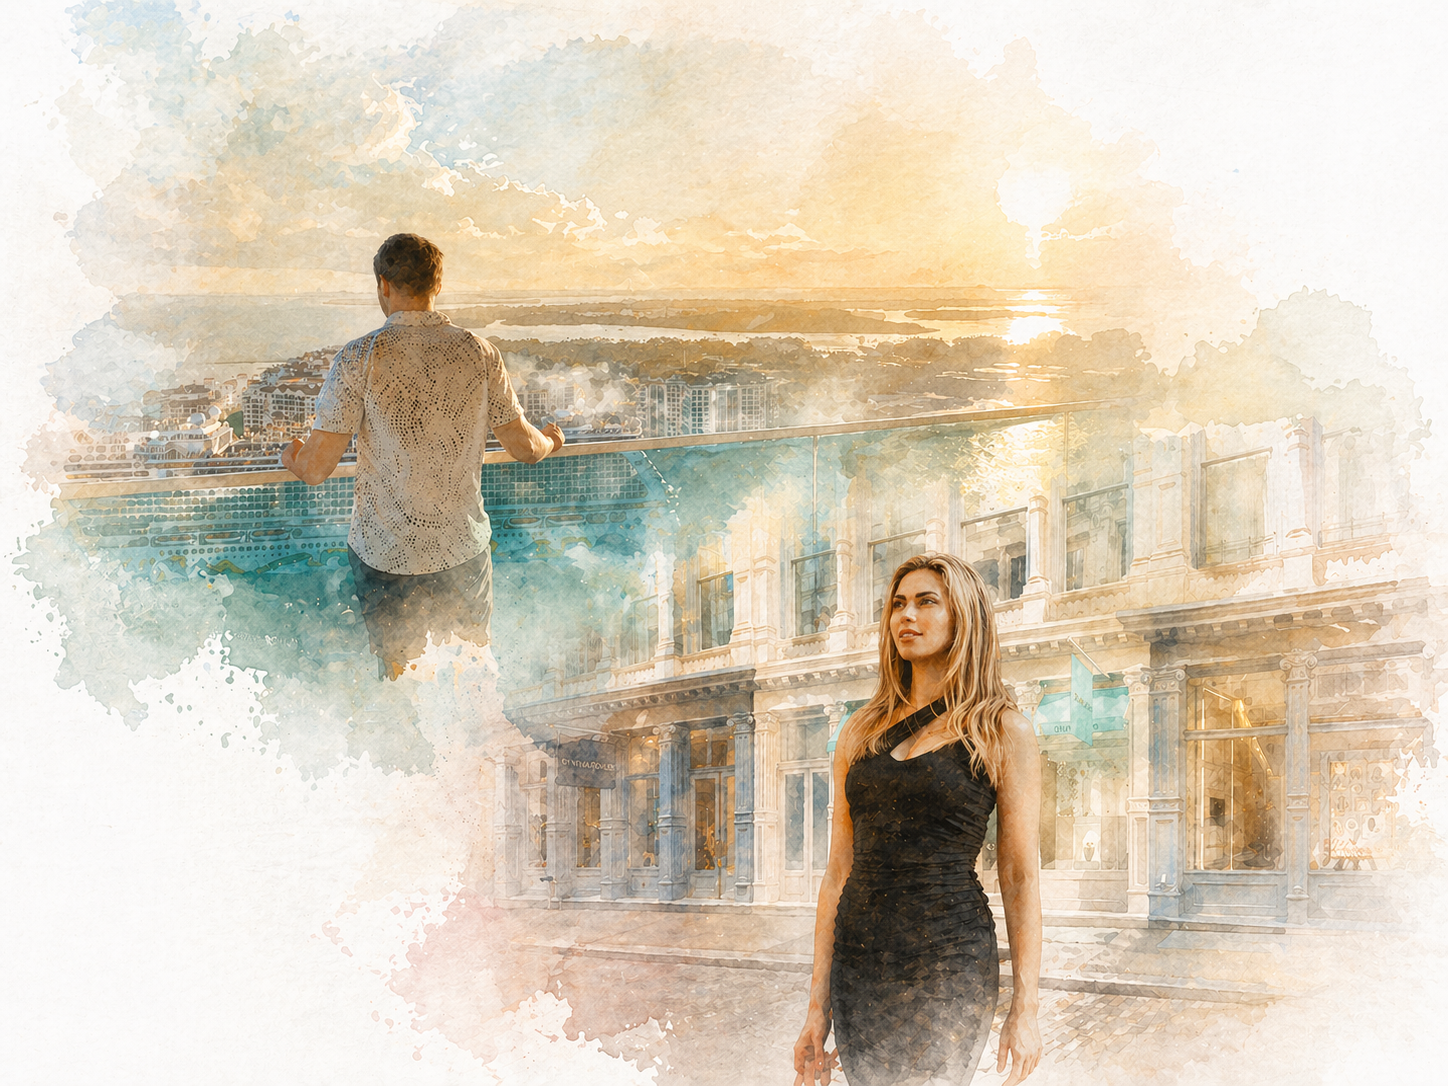
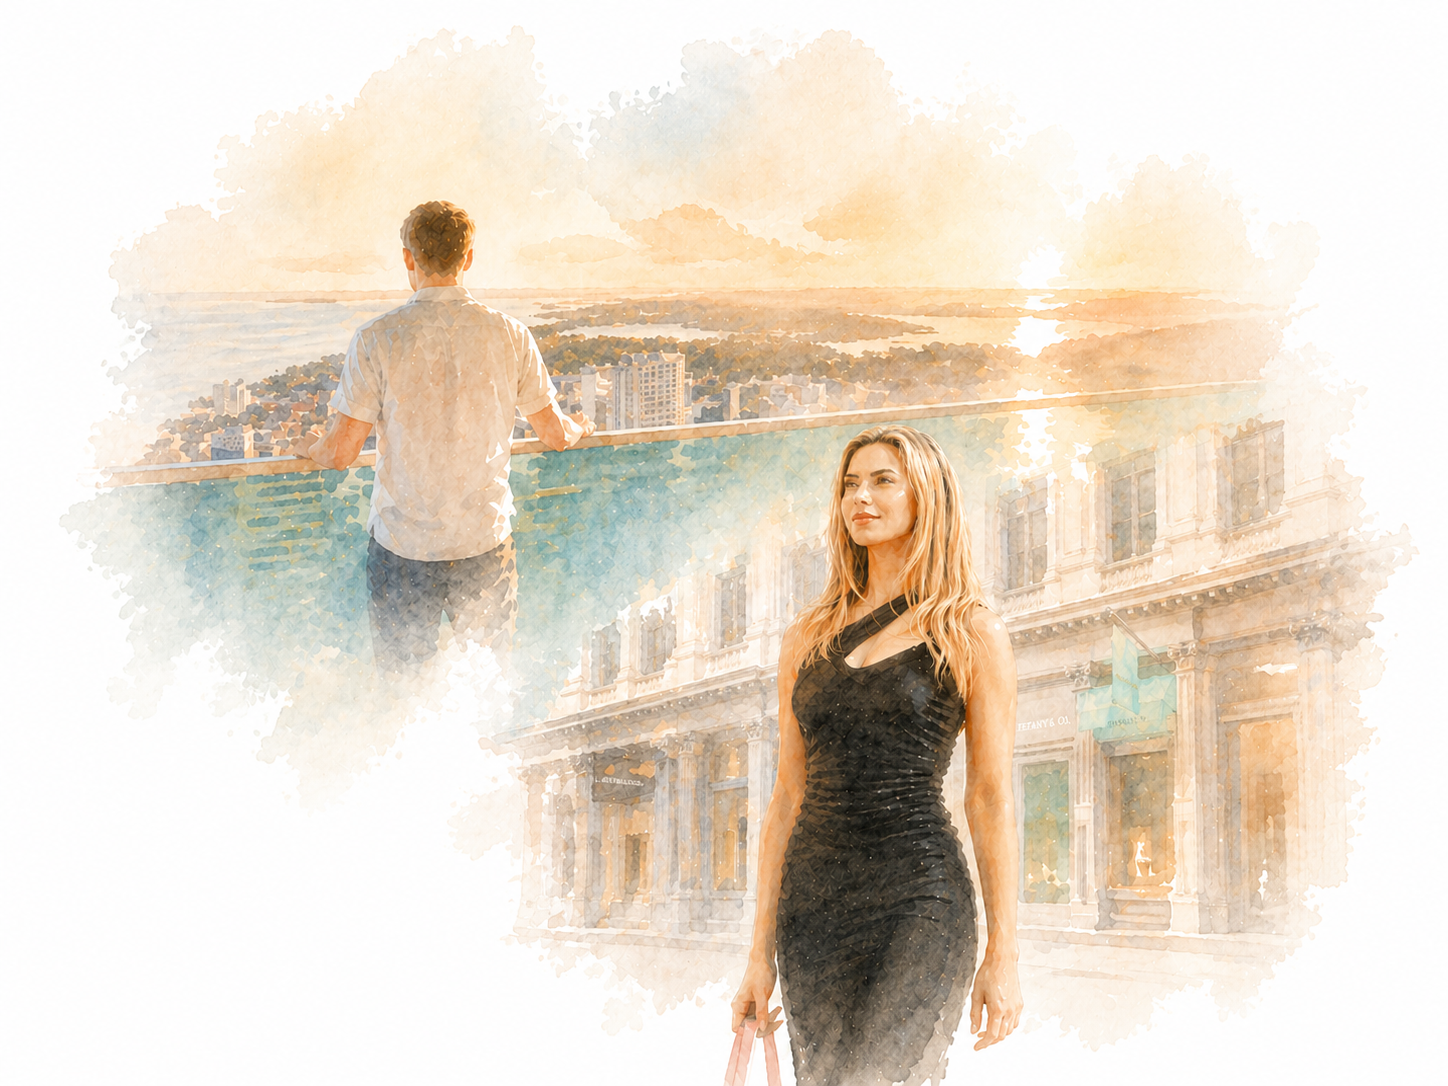
Apply Trajan Pro to nav links via Adobe Fonts

diff --git a/agenda.html b/agenda.html
@@ -8,6 +8,7 @@
   <link rel="preconnect" href="https://fonts.googleapis.com">
   <link rel="preconnect" href="https://fonts.gstatic.com" crossorigin>
   <link href="https://fonts.googleapis.com/css2?family=Italianno&family=Cormorant+Garamond:ital,wght@0,300;0,400;0,500;0,600;1,300;1,400;1,500&family=Cormorant+SC:wght@300;400;500;600&family=Montserrat:wght@300;400;500;600&display=swap" rel="stylesheet">
+  <link rel="stylesheet" href="https://use.typekit.net/rpb8jyt.css">
 </head>
 <body>
 

diff --git a/dress-code.html b/dress-code.html
@@ -8,6 +8,7 @@
   <link rel="preconnect" href="https://fonts.googleapis.com">
   <link rel="preconnect" href="https://fonts.gstatic.com" crossorigin>
   <link href="https://fonts.googleapis.com/css2?family=Italianno&family=Cormorant+Garamond:ital,wght@0,300;0,400;0,500;0,600;1,300;1,400;1,500&family=Cormorant+SC:wght@300;400;500;600&family=Montserrat:wght@300;400;500;600&display=swap" rel="stylesheet">
+  <link rel="stylesheet" href="https://use.typekit.net/rpb8jyt.css">
 </head>
 <body>
 

diff --git a/index.html b/index.html
@@ -8,6 +8,7 @@
   <link rel="preconnect" href="https://fonts.googleapis.com">
   <link rel="preconnect" href="https://fonts.gstatic.com" crossorigin>
   <link href="https://fonts.googleapis.com/css2?family=Italianno&family=Cormorant+Garamond:ital,wght@0,300;0,400;0,500;0,600;1,300;1,400;1,500&family=Cormorant+SC:wght@300;400;500;600&family=Montserrat:wght@300;400;500;600&display=swap" rel="stylesheet">
+  <link rel="stylesheet" href="https://use.typekit.net/rpb8jyt.css">
 </head>
 <body>
 

diff --git a/our-story.html b/our-story.html
@@ -8,6 +8,7 @@
   <link rel="preconnect" href="https://fonts.googleapis.com">
   <link rel="preconnect" href="https://fonts.gstatic.com" crossorigin>
   <link href="https://fonts.googleapis.com/css2?family=Italianno&family=Cormorant+Garamond:ital,wght@0,300;0,400;0,500;0,600;1,300;1,400;1,500&family=Cormorant+SC:wght@300;400;500;600&family=Montserrat:wght@300;400;500;600&display=swap" rel="stylesheet">
+  <link rel="stylesheet" href="https://use.typekit.net/rpb8jyt.css">
 </head>
 <body>
 

diff --git a/registry.html b/registry.html
@@ -8,6 +8,7 @@
   <link rel="preconnect" href="https://fonts.googleapis.com">
   <link rel="preconnect" href="https://fonts.gstatic.com" crossorigin>
   <link href="https://fonts.googleapis.com/css2?family=Italianno&family=Cormorant+Garamond:ital,wght@0,300;0,400;0,500;0,600;1,300;1,400;1,500&family=Cormorant+SC:wght@300;400;500;600&family=Montserrat:wght@300;400;500;600&display=swap" rel="stylesheet">
+  <link rel="stylesheet" href="https://use.typekit.net/rpb8jyt.css">
 </head>
 <body>
 

diff --git a/travel.html b/travel.html
@@ -8,6 +8,7 @@
   <link rel="preconnect" href="https://fonts.googleapis.com">
   <link rel="preconnect" href="https://fonts.gstatic.com" crossorigin>
   <link href="https://fonts.googleapis.com/css2?family=Italianno&family=Cormorant+Garamond:ital,wght@0,300;0,400;0,500;0,600;1,300;1,400;1,500&family=Cormorant+SC:wght@300;400;500;600&family=Montserrat:wght@300;400;500;600&display=swap" rel="stylesheet">
+  <link rel="stylesheet" href="https://use.typekit.net/rpb8jyt.css">
 </head>
 <body>
 

diff --git a/styles.css b/styles.css
@@ -82,7 +82,7 @@ a { color: inherit; }
 
 .nav-link {
   padding: 14px 20px;
-  font-family: var(--font-sans);
+  font-family: trajan-pro, var(--font-sans);
   font-size: 0.65rem;
   font-weight: 500;
   letter-spacing: 2.5px;
